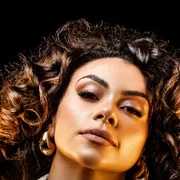
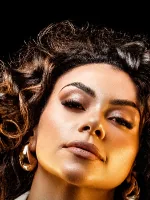
Lista: foto do topo inteira, cidades douradas e ações em evidência, curso em retrato, botões mais altos e rodapé da home

diff --git a/lista.html b/lista.html
@@ -88,7 +88,7 @@
   <section class="lk-bloco" aria-labelledby="t-curso">
     <p class="kicker">Curso</p>
     <article class="destaque">
-      <img src="img/lista/curso.webp" width="1000" height="500" loading="lazy" alt="Dra. Kiss Cunha, curso de massoterapia">
+      <img src="img/lista/curso.webp" width="800" height="1000" loading="lazy" alt="Dra. Kiss Cunha, curso de massoterapia">
       <div class="destaque__txt">
         <span class="destaque__selo">Curso prático · poucas vagas</span>
         <h2 id="t-curso">Massoterapia <em>para iniciantes</em></h2>
@@ -105,41 +105,55 @@
 
     <p class="lk-grupo">Atendimentos</p>
     <ul class="links">
-      <li><a href="#" data-wa="gostaria de mais informações sobre a Massoterapia"><img src="img/lista/t-massoterapia.webp" alt="" width="180" height="180"><span><strong>Massoterapia</strong><small>Massagens estéticas e terapêuticas</small></span><svg><use href="#seta"/></svg></a></li>
-      <li><a href="#" data-wa="gostaria de mais informações sobre a Harmonização Facial"><img src="img/lista/t-facial.webp" alt="" width="180" height="180"><span><strong>Harmonização facial</strong><small>Equilíbrio e traços naturais</small></span><svg><use href="#seta"/></svg></a></li>
-      <li><a href="#" data-wa="gostaria de mais informações sobre a Harmonização Corporal"><img src="img/lista/t-corporal.webp" alt="" width="180" height="180"><span><strong>Harmonização corporal</strong><small>Contorno, firmeza e medidas</small></span><svg><use href="#seta"/></svg></a></li>
-      <li><a href="#" data-wa="gostaria de mais informações sobre o Botox Day"><img src="img/lista/t-botox.webp" alt="" width="180" height="180"><span><strong>Botox Day</strong><small>Datas na agenda mensal</small></span><svg><use href="#seta"/></svg></a></li>
+      <li><a href="#" data-wa="gostaria de mais informações sobre a Massoterapia"><img src="img/lista/t-massoterapia.webp" alt="" width="150" height="200"><span><strong>Massoterapia</strong><small>Massagens estéticas e terapêuticas</small></span><svg><use href="#seta"/></svg></a></li>
+      <li><a href="#" data-wa="gostaria de mais informações sobre a Harmonização Facial"><img src="img/lista/t-facial.webp" alt="" width="150" height="200"><span><strong>Harmonização facial</strong><small>Equilíbrio e traços naturais</small></span><svg><use href="#seta"/></svg></a></li>
+      <li><a href="#" data-wa="gostaria de mais informações sobre a Harmonização Corporal"><img src="img/lista/t-corporal.webp" alt="" width="150" height="200"><span><strong>Harmonização corporal</strong><small>Contorno, firmeza e medidas</small></span><svg><use href="#seta"/></svg></a></li>
+      <li><a href="#" data-wa="gostaria de mais informações sobre o Botox Day"><img src="img/lista/t-botox.webp" alt="" width="150" height="200"><span><strong>Botox Day</strong><small>Datas na agenda mensal</small></span><svg><use href="#seta"/></svg></a></li>
     </ul>
 
     <p class="lk-grupo">Cursos &amp; eventos</p>
     <ul class="links">
-      <li><a href="#" data-wa="gostaria de mais informações sobre o Curso VIP Sentir"><img src="img/lista/t-sentir.webp" alt="" width="180" height="180"><span><strong>Curso VIP Sentir</strong><small>Terapias manuais</small></span><svg><use href="#seta"/></svg></a></li>
-      <li><a href="#" data-wa="gostaria de mais informações sobre os Eventos"><img src="img/lista/t-eventos.webp" alt="" width="180" height="180"><span><strong>Eventos</strong><small>Saiba mais</small></span><svg><use href="#seta"/></svg></a></li>
+      <li><a href="#" data-wa="gostaria de mais informações sobre o Curso VIP Sentir"><img src="img/lista/t-sentir.webp" alt="" width="150" height="200"><span><strong>Curso VIP Sentir</strong><small>Terapias manuais</small></span><svg><use href="#seta"/></svg></a></li>
+      <li><a href="#" data-wa="gostaria de mais informações sobre os Eventos"><img src="img/lista/t-eventos.webp" alt="" width="150" height="200"><span><strong>Eventos</strong><small>Saiba mais</small></span><svg><use href="#seta"/></svg></a></li>
     </ul>
 
     <p class="lk-grupo">Seja modelo</p>
     <ul class="links">
-      <li><a href="#" data-wa="gostaria de mais informações sobre ser modelo"><img src="img/lista/t-modelo.webp" alt="" width="180" height="180"><span><strong>Seja modelo</strong><small>Quero participar</small></span><svg><use href="#seta"/></svg></a></li>
-      <li><a href="#" data-wa="gostaria de mais informações sobre ser paciente modelo de Harmonização Facial"><img src="img/lista/t-modelo-facial.webp" alt="" width="180" height="180"><span><strong>Paciente modelo · Facial</strong><small>Harmonização facial</small></span><svg><use href="#seta"/></svg></a></li>
-      <li><a href="#" data-wa="gostaria de mais informações sobre ser paciente modelo de Remodelação Glútea"><img src="img/lista/t-gluteo.webp" alt="" width="180" height="180"><span><strong>Paciente modelo · Glútea</strong><small>Remodelação glútea</small></span><svg><use href="#seta"/></svg></a></li>
+      <li><a href="#" data-wa="gostaria de mais informações sobre ser modelo"><img src="img/lista/t-modelo.webp" alt="" width="150" height="200"><span><strong>Seja modelo</strong><small>Quero participar</small></span><svg><use href="#seta"/></svg></a></li>
+      <li><a href="#" data-wa="gostaria de mais informações sobre ser paciente modelo de Harmonização Facial"><img src="img/lista/t-modelo-facial.webp" alt="" width="150" height="200"><span><strong>Paciente modelo · Facial</strong><small>Harmonização facial</small></span><svg><use href="#seta"/></svg></a></li>
+      <li><a href="#" data-wa="gostaria de mais informações sobre ser paciente modelo de Remodelação Glútea"><img src="img/lista/t-gluteo.webp" alt="" width="150" height="200"><span><strong>Paciente modelo · Glútea</strong><small>Remodelação glútea</small></span><svg><use href="#seta"/></svg></a></li>
     </ul>
 
     <ul class="links links--site">
-      <li><a href="index.html"><img src="img/lista/t-site.webp" alt="" width="180" height="180"><span><strong>Site oficial</strong><small>Conheça a Dra. Kiss Cunha</small></span><svg><use href="#seta"/></svg></a></li>
+      <li><a href="index.html"><img src="img/lista/t-site.webp" alt="" width="150" height="200"><span><strong>Site oficial</strong><small>Conheça a Dra. Kiss Cunha</small></span><svg><use href="#seta"/></svg></a></li>
     </ul>
   </section>
 
   <!-- FECHO -->
-  <footer class="lk-fim">
+  <section class="lk-fim">
     <img src="img/lista/rodape.webp" width="1100" height="1422" loading="lazy" alt="Dra. Kiss Cunha sentada em poltrona de couro">
-    <div class="lk-fim__txt">
-      <p class="lk-fim__frase">Mãos que tocam <em>e transformam</em></p>
-      <ul class="lk-contatos">
-        <li><a href="#" data-wa="tudo bem?"><svg><use href="#wa"/></svg>+55 (11) 91480-1043</a></li>
-        <li><a href="mailto:dra.kisscunha@gmail.com"><svg><use href="#mail"/></svg>dra.kisscunha@gmail.com</a></li>
-      </ul>
-      <p class="lk-cred">Site por <a href="mailto:sttudioonze@gmail.com">Sttudio 11 Web Design</a></p>
+    <p class="lk-fim__frase">Mãos que tocam <em>e transformam</em></p>
+  </section>
+
+  <footer class="rodape">
+    <div class="rodape__in">
+      <div class="rodape__marca">
+        <a href="index.html" class="marca">
+          <svg class="marca__k"><use href="#k"/></svg>
+          <span class="marca__nome">Dra. Kiss Cunha<small>Estética avançada &amp; terapias manuais</small></span>
+        </a>
+        <p>© <span id="ano">2026</span> Dra. Kiss Cunha. Todos os direitos reservados.</p>
+      </div>
+      <nav class="rodape__col" aria-label="Rodapé">
+        <p class="rotulo">Navegação</p>
+        <a href="index.html#sobre">Sobre</a><a href="index.html#procedimentos">Procedimentos</a><a href="index.html#tecnicas">Técnicas</a><a href="index.html#duvidas">Dúvidas</a><a href="index.html#contato">Contato</a>
+      </nav>
+      <div class="rodape__col">
+        <p class="rotulo">Contato</p>
+        <a href="#" data-wa="tudo bem?">+55 (11) 91480-1043</a><a href="mailto:dra.kisscunha@gmail.com">dra.kisscunha@gmail.com</a>
+      </div>
     </div>
+    <p class="rodape__cred">Site por <a href="mailto:sttudioonze@gmail.com">Sttudio 11 Web Design</a></p>
   </footer>
 
 </main>
@@ -152,6 +166,7 @@
     a.target = "_blank";
     a.rel = "noopener";
   });
+  document.getElementById("ano").textContent = new Date().getFullYear();
 </script>
 </body>
 </html>

diff --git a/css/lista.css b/css/lista.css
@@ -5,11 +5,11 @@
 }
 
 /* topo */
-.lk-topo{position:relative;min-height:640px;display:flex;align-items:flex-end;isolation:isolate}
-.lk-topo__foto{position:absolute;inset:0;width:100%;height:100%;object-fit:cover;object-position:center 18%;z-index:-2}
+.lk-topo{position:relative;isolation:isolate}
+.lk-topo__foto{position:relative;z-index:-2;width:100%;height:auto;aspect-ratio:2/3;object-fit:cover}
 .lk-topo::after{content:"";position:absolute;inset:0;z-index:-1;
-  background:linear-gradient(to bottom,rgba(18,18,19,.15) 0%,transparent 30%,rgba(18,18,19,.7) 62%,var(--preto) 92%)}
-.lk-topo__txt{width:100%;padding:0 24px 36px;text-align:center}
+  background:linear-gradient(to bottom,rgba(18,18,19,.1) 0%,transparent 45%,rgba(18,18,19,.75) 72%,var(--preto) 96%)}
+.lk-topo__txt{position:absolute;left:0;right:0;bottom:0;padding:0 24px 32px;text-align:center}
 .lk-topo__k{width:40px;height:40px;color:var(--ouro);margin-bottom:10px}
 .lk-topo__dra{margin:0 0 -6px;font:italic 500 22px var(--display);color:var(--cinza)}
 .lk-nome{display:flex;justify-content:center;gap:.28em;margin:0;
@@ -41,17 +41,19 @@
 .bandeira svg{display:block;width:100%;height:100%}
 .bandeira::after{content:"";position:absolute;inset:0;border-radius:inherit;
   background:linear-gradient(160deg,rgba(255,255,255,.38),rgba(255,255,255,.06) 42%,transparent 55%,rgba(0,0,0,.18))}
-.agenda strong{display:flex;align-items:baseline;gap:8px;font:500 21px/1.15 var(--display);color:var(--off)}
+.agenda strong{display:flex;align-items:baseline;gap:8px;font:500 22px/1.15 var(--display);color:var(--ouro)}
 .agenda strong small{font:400 10px var(--corpo);letter-spacing:.2em;color:var(--txt)}
-.datas{list-style:none;margin:6px 0 0;padding:0;display:grid;gap:2px}
-.datas li{display:flex;align-items:baseline;gap:10px;font-size:13.5px;line-height:1.45;color:var(--txt)}
-.datas b{min-width:4.2em;font:500 13px var(--corpo);letter-spacing:.04em;color:#F1DFB3}
+.datas{list-style:none;margin:8px 0 0;padding:0;display:grid;gap:6px}
+.datas li{display:flex;align-items:center;gap:10px;line-height:1.3}
+.datas b{flex:none;min-width:58px;padding:5px 10px;border-radius:999px;text-align:center;font:500 12px var(--corpo);letter-spacing:.04em;color:#F1DFB3;
+  background:rgba(191,162,111,.12);border:1px solid rgba(191,162,111,.35)}
+.datas span{font:500 15px var(--corpo);color:var(--off)}
 
 /* curso em destaque */
 .destaque{padding:10px;border-radius:28px;border:1px solid rgba(191,162,111,.4);
   background:linear-gradient(160deg,rgba(191,162,111,.14),rgba(255,255,255,.035) 45%);
   -webkit-backdrop-filter:var(--blur);backdrop-filter:var(--blur);box-shadow:var(--glass-brilho),0 20px 60px -24px rgba(191,162,111,.35)}
-.destaque img{width:100%;aspect-ratio:4/3.1;object-fit:cover;object-position:center 30%;border-radius:20px}
+.destaque img{width:100%;aspect-ratio:4/5;object-fit:cover;object-position:center 20%;border-radius:20px}
 .destaque__txt{padding:24px 14px 18px;text-align:center}
 .destaque__selo{display:inline-block;padding:7px 14px;border-radius:999px;font:400 10px var(--corpo);letter-spacing:.22em;text-transform:uppercase;color:#F1DFB3;
   background:rgba(191,162,111,.14);border:1px solid rgba(191,162,111,.45)}
@@ -64,29 +66,31 @@
 /* links */
 .lk-grupo{margin:26px 4px 10px;font:400 10px var(--corpo);letter-spacing:.26em;text-transform:uppercase;color:var(--txt)}
 .links{list-style:none;margin:0;padding:0;display:grid;gap:10px}
-.links a{display:flex;align-items:center;gap:14px;padding:8px 16px 8px 8px;border-radius:20px;
+.links a{display:flex;align-items:center;gap:16px;padding:8px 18px 8px 8px;border-radius:22px;
   background:var(--glass);border:1px solid var(--glass-borda);-webkit-backdrop-filter:var(--blur);backdrop-filter:var(--blur);box-shadow:var(--glass-brilho);
   transition:border-color .25s,background .25s,transform .25s}
 .links a:hover{border-color:rgba(191,162,111,.5);background:rgba(191,162,111,.1);transform:translateX(3px)}
-.links img{width:60px;height:60px;border-radius:14px;object-fit:cover;flex:none}
+.links img{width:66px;height:88px;border-radius:15px;object-fit:cover;flex:none}
 .links span{flex:1;min-width:0}
-.links strong{display:block;font:500 21px/1.15 var(--display);color:var(--off)}
-.links small{display:block;font-size:12.5px;color:var(--txt);white-space:nowrap;overflow:hidden;text-overflow:ellipsis}
+.links strong{display:block;font:500 23px/1.15 var(--display);color:var(--off);margin-bottom:3px}
+.links small{display:block;font-size:13px;color:var(--txt);white-space:nowrap;overflow:hidden;text-overflow:ellipsis}
 .links svg{flex:none;width:18px;height:18px;color:var(--ouro)}
 .links--site{margin-top:26px}
 .links--site a{border-color:rgba(191,162,111,.45);background:linear-gradient(135deg,rgba(233,211,161,.16),rgba(191,162,111,.05))}
 
 /* fecho */
-.lk-fim{position:relative;margin-top:44px;isolation:isolate;min-height:560px;display:flex;align-items:flex-end}
-.lk-fim img{position:absolute;inset:0;width:100%;height:100%;object-fit:cover;object-position:center 40%;z-index:-2}
-.lk-fim::before{content:"";position:absolute;inset:0;z-index:-1;background:linear-gradient(to bottom,var(--preto) 0%,rgba(18,18,19,.2) 26%,rgba(18,18,19,.3) 50%,rgba(12,12,13,.95) 82%)}
-.lk-fim__txt{width:100%;padding:0 22px 26px;text-align:center}
-.lk-fim__frase{font:500 38px/1.05 var(--display);margin:0 0 20px}
-.lk-contatos{list-style:none;padding:0;margin:0 0 22px;display:grid;gap:8px;justify-items:center}
-.lk-contatos a{display:inline-flex;align-items:center;gap:10px;font-size:15px;color:var(--off)}
-.lk-contatos svg{width:18px;height:18px;color:var(--ouro)}
-.lk-cred{margin:0;padding-top:16px;border-top:1px solid rgba(255,255,255,.08);font-size:11px;letter-spacing:.16em;text-transform:uppercase;color:var(--txt)}
-.lk-cred a{color:var(--ouro)}
+.lk-fim{position:relative;margin-top:44px;isolation:isolate}
+.lk-fim img{width:100%;height:auto;aspect-ratio:1100/1422;object-fit:cover}
+.lk-fim::before{content:"";position:absolute;inset:0;z-index:1;pointer-events:none;background:linear-gradient(to bottom,var(--preto) 0%,transparent 24%,transparent 58%,var(--preto-2) 98%)}
+.lk-fim__frase{position:absolute;z-index:2;left:0;right:0;bottom:26px;margin:0;padding:0 22px;text-align:center;font:500 38px/1.05 var(--display)}
+
+/* rodapé igual ao da home, em coluna */
+.lista .rodape{border-top:1px solid rgba(255,255,255,.06)}
+.lista .rodape__in{grid-template-columns:1fr;gap:28px;padding:34px 24px 28px;text-align:center;justify-items:center}
+.lista .rodape .marca{justify-content:center}
+.lista .rodape .marca__nome{display:block}
+.lista .rodape__col{align-items:center}
+.lista .rodape__marca p{margin-top:16px}
 
 @media (prefers-reduced-motion:no-preference){
   .lk-nome{animation:brilho 14s ease-in-out infinite alternate}
